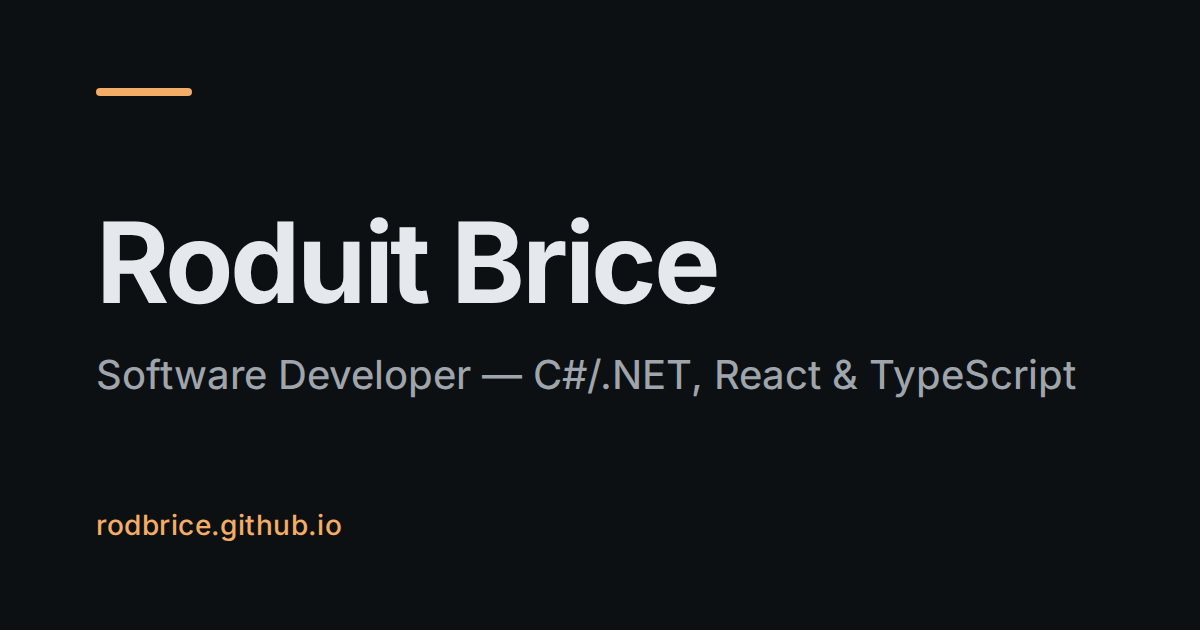
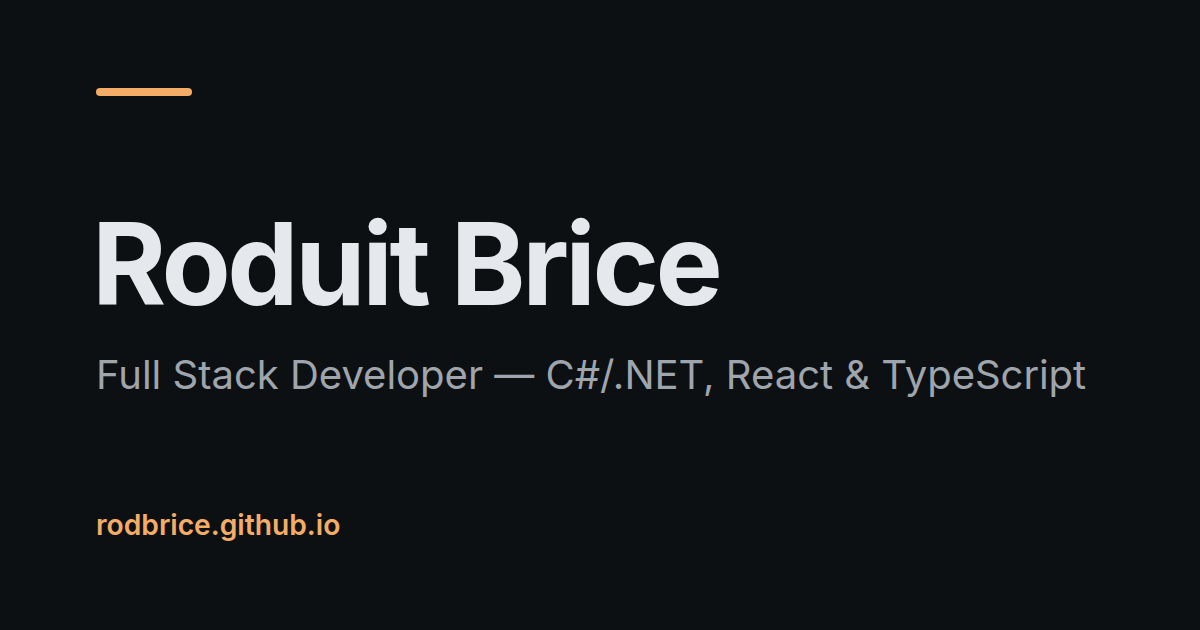
Fix 320 px overflow, share image and case-study metadata (P4) (#31)

diff --git a/src/i18n/ui.ts b/src/i18n/ui.ts
@@ -156,7 +156,7 @@ const fr: Dictionary = {
     "Roduit Brice, développeur full stack en Suisse. Je conçois des logiciels adaptés à des processus de travail réels avec C#/.NET, React et TypeScript.",
   "home.role": "Développeur full stack | C#/.NET · React · TypeScript",
   "home.lead":
-    "Je construis des logiciels adaptés à des processus de travail réels : comprendre les besoins, concevoir et développer la solution, la tester, puis la valider avec les utilisateurs.",
+    "Je construis des logiciels adaptés à des processus de travail réels\u00a0: comprendre les besoins, concevoir et développer la solution, la tester, puis la valider avec les utilisateurs.",
   "home.linkedinLink": "Profil LinkedIn",
   "home.githubLink": "Code sur GitHub",
   "home.projectsLink": "Voir les projets",
@@ -171,7 +171,7 @@ const fr: Dictionary = {
   "project.context": "Contexte",
   "project.clientWork": "Projet client, confidentiel",
   "project.private":
-    "Projet privé : le code et les écrans ne sont pas publics. Cette page ne présente que des informations générales sur le projet.",
+    "Projet privé\u00a0: le code et les écrans ne sont pas publics. Cette page ne présente que des informations générales sur le projet.",
   "project.privateWork": "Projet privé, code non public",
   "project.next": "Projet suivant",
   "project.architecture": "Architecture",
@@ -189,7 +189,7 @@ const fr: Dictionary = {
   "project.publicRepository": "Dépôt public",
   "project.evidence": "Éléments vérifiables",
   "project.walkthrough": "Présentation de l’architecture possible sur demande",
-  "project.flow": "Du terrain au bureau",
+  "project.flow": "Flux du terrain au bureau",
   "project.synthetic": "Illustration — données synthétiques.",
   "status.clientValidation": "Validation finale par le client",
   "status.inDevelopment": "En développement",
@@ -199,7 +199,7 @@ const fr: Dictionary = {
   "status.experiment": "Expérimentation",
   "about.title": "À propos",
   "about.body":
-    "Développeur logiciel basé en Suisse, avec une expérience professionnelle freelance depuis 2023. Je conçois des applications backend et full stack en C#/.NET, React et TypeScript, avec un intérêt particulier pour l’architecture logicielle, l’automatisation, les tests et les systèmes métier. J'utilise des outils d'IA pour aller plus vite, sans perdre le contrôle : je conçois l'architecture, je relis chaque changement et je ne livre que ce qui est testé.",
+    "Développeur logiciel basé en Suisse, avec une expérience professionnelle freelance depuis 2023. Je conçois des applications backend et full stack en C#/.NET, React et TypeScript, avec un intérêt particulier pour l’architecture logicielle, l’automatisation, les tests et les systèmes métier. J’utilise des outils d’IA pour aller plus vite, sans perdre le contrôle\u00a0: je conçois l’architecture, je relis chaque changement et je ne livre que ce qui est testé.",
   "about.availability":
     "Je suis ouvert à un poste de développeur logiciel en Suisse ainsi qu’à des missions freelance.",
   "experience.title": "Parcours",

diff --git a/tests/e2e/layout.spec.ts b/tests/e2e/layout.spec.ts
@@ -144,3 +144,39 @@ test.describe("section index", () => {
     await context.close();
   });
 });
+
+test.describe("narrow screens", () => {
+  // WCAG 1.4.10 reflow: 320 CSS pixels wide, without scrolling sideways. The
+  // project cards hold the longest unbreakable phrases (their status line).
+  for (const path of ["/", "/pt/", "/fr/"]) {
+    test(`fits a 320 px viewport without horizontal scrolling: ${path}`, async ({
+      page,
+    }) => {
+      await page.setViewportSize({ width: 320, height: 800 });
+      await page.goto(path);
+      expect(
+        await page.evaluate(
+          () =>
+            document.documentElement.scrollWidth <=
+            document.documentElement.clientWidth,
+        ),
+      ).toBe(true);
+      // Each card stays inside the content column, not only inside the viewport.
+      const overflowing = await page
+        .locator("article.card")
+        .evaluateAll((cards) =>
+          cards
+            .filter((card) => {
+              const column = card.closest("section");
+              if (!column) return true;
+              return (
+                card.getBoundingClientRect().right >
+                column.getBoundingClientRect().right + 0.5
+              );
+            })
+            .map((card) => card.querySelector("h3")?.textContent ?? ""),
+        );
+      expect(overflowing).toEqual([]);
+    });
+  }
+});

diff --git a/tests/e2e/projects.spec.ts b/tests/e2e/projects.spec.ts
@@ -154,6 +154,10 @@ for (const locale of LOCALES) {
       test("has a title, its technologies and a way back", async ({ page }) => {
         await page.goto(url);
         await expect(page.getByRole("heading", { level: 1 })).toBeVisible();
+        await expect(page.locator('meta[property="og:type"]')).toHaveAttribute(
+          "content",
+          "article",
+        );
         await expect(
           page.getByRole("list", { name: t("project.stack") }),
         ).toBeVisible();
@@ -205,6 +209,13 @@ for (const locale of LOCALES) {
         expect(targets.every((position) => position > -1)).toBe(true);
         expect(targets).toEqual([...targets].sort((a, b) => a - b));
         expect(new Set(hrefs).size).toBe(hrefs.length);
+        // Two entries never read the same, e.g. a figure named like a section.
+        const labels = await index
+          .getByRole("link")
+          .evaluateAll((links) =>
+            links.map((l) => l.textContent.replace(/^\s*\d+/, "").trim()),
+          );
+        expect(new Set(labels).size).toBe(labels.length);
       });
 
       test("shows facts, its diagram if any and a localized next project", async ({

diff --git a/tests/e2e/i18n.spec.ts b/tests/e2e/i18n.spec.ts
@@ -58,6 +58,10 @@ for (const locale of LOCALES) {
       await expect(
         page.locator('link[rel="alternate"][hreflang="x-default"]'),
       ).toHaveAttribute("href", `${SITE}/`);
+      await expect(page.locator('meta[property="og:type"]')).toHaveAttribute(
+        "content",
+        "website",
+      );
     });
   });
 }

diff --git a/README.md b/README.md
@@ -7,7 +7,7 @@ plain HTML and CSS, with no client-side framework.
 
 ## Requirements
 
-- Node.js 24 (see `.nvmrc`; Astro needs 22.12 or later)
+- Node.js 24 (see `.nvmrc`; Astro needs 22.23.4 or later)
 - pnpm 10 (the exact version is pinned in `package.json`)
 
 ## Getting started
@@ -68,9 +68,9 @@ All colours, type sizes, spacing and motion live as CSS custom properties in
 Colours are defined in OKLCH for both themes with `light-dark()`. The site
 follows the system theme, and the header button stores an explicit choice.
 
-The accent colour is a single hue, currently amber (`65`). To change it, edit
-`--accent-hue` in `src/styles/tokens.css` (for example `185` teal or `270`
-indigo); the lightness of each theme is fixed so text contrast stays within
+The accent colour is a single hue, currently blue (`255`). To change it, edit
+`--accent-hue` in `src/styles/tokens.css` (for example `65` amber or `185`
+teal); the lightness of each theme is fixed so text contrast stays within
 WCAG AA.
 
 Inter is self-hosted from `@fontsource-variable/inter` (Latin subset only) and

diff --git a/src/content/projects/pt/agv-dispatch.md b/src/content/projects/pt/agv-dispatch.md
@@ -1,8 +1,8 @@
 ---
 title: Simulação de despacho de AGVs
 kind: Automação e simulação
-summary: Uma simulação em Python do controle de demanda e do despacho de veículos guiados automaticamente (AGVs), coordenando pedidos de transporte entre as áreas de um site.
-problem: "Os pedidos de transporte entre as áreas de um site precisam ser coordenados entre veículos guiados automaticamente."
+summary: Uma simulação em Python do controle de demanda e do despacho de veículos guiados automaticamente (AGVs), coordenando pedidos de transporte entre as áreas de uma instalação.
+problem: "Os pedidos de transporte entre as áreas de uma instalação precisam ser coordenados entre veículos guiados automaticamente."
 contribution: "Escrevi em Python uma simulação do controle de demanda e do despacho."
 status: experiment
 order: 6

diff --git a/src/content/projects/pt/theone.md b/src/content/projects/pt/theone.md
@@ -16,7 +16,7 @@ sombria, feito com Unity 6 e a biblioteca de rede FishNet. É onde eu trabalho
 problemas que software de negócio raramente traz: rede em tempo real, animação
 e combate físico, tudo dentro de um orçamento de frame apertado.
 
-## Arquitetura
+## Decisões de arquitetura
 
 - **Servidor dedicado autoritativo.** O servidor é dono do estado do jogo e
   valida cada ação; um cliente nunca decide sozinho se um golpe acertou.

diff --git a/src/content/projects/en/theone.md b/src/content/projects/en/theone.md
@@ -16,7 +16,7 @@ Unity 6 and the FishNet networking library. It is where I work on problems that
 business software rarely raises: real-time networking, animation and physical
 combat, all under a tight frame budget.
 
-## Architecture
+## Architecture choices
 
 - **Dedicated authoritative server.** The server owns the game state and
   validates every action; a client never decides on its own whether a hit

diff --git a/src/content/projects/fr/theone.md b/src/content/projects/fr/theone.md
@@ -17,7 +17,7 @@ je travaille des problèmes que le logiciel métier pose rarement : réseau en
 temps réel, animation et combat physique, le tout dans un budget de frame
 serré.
 
-## Architecture
+## Choix d’architecture
 
 - **Serveur dédié autoritaire.** Le serveur détient l’état du jeu et valide
   chaque action ; un client ne décide jamais seul si un coup a porté.
